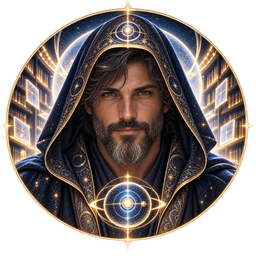
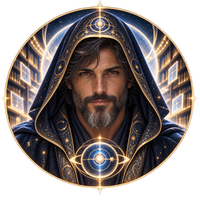
Performance : images allégées, plus de décalage de mise en page au chargement
Feuille de route « Finition, anti-vibecode & robustesse », priorité 7 :
mesurer avant de modifier. Mesure en laboratoire (mobile 390 px, 4G lente
1,6 Mb/s, 150 ms, processeur ÷4), avant → après :
- accueil : LCP 5,2 s → 3,5 s ; poids 665 → 533 Ko
- Formation 4,0 → 3,3 s, Oracle 4,3 → 3,3 s, Réseau 4,7 → 3,2 s,
  Cartes cadeaux 4,4 → 2,9 s, Défi 4,4 → 2,9 s
- CLS 0,10–0,14 → 0 à 0,04 sur toutes les pages mesurées

Changements (mêmes noms de fichiers, aucun code d'image modifié) :
- images ré-encodées ou redimensionnées à au moins 2× leur taille affichée :
  héros cosmique mobile 294 → 148 Ko et bureau 282 → 124 Ko (WebP q72,
  mêmes dimensions, sans différence visible), symbole 65 → 18 Ko, logos,
  avatar du Gardien 128 → 81 Ko, portrait de Stéphanie (1200 px, garde
  la qualité pour le partage), couverture du Codex, photo de Sébastien.
  Images de partage 1200×630 inchangées.
- index.css : l'espace de 84 px en bas de page (mobile) n'est créé qu'une
  fois l'application affichée ; pendant le chargement il se trouvait en haut
  puis sautait en bas (décalage CLS 0,1 sur chaque page). Le test
  siteOptimization2 vérifie toujours cet espace, avec le nouveau sélecteur.

Build complet : 453 tests.

Claude-Session: https://claude.ai/code/session_01MWA2BeD79SJBEmY3bPZiT7

diff --git a/src/index.css b/src/index.css
@@ -19,7 +19,9 @@ body {
    au-dessus du contenu. Une marge en fin de page laisse le pied de page et les
    derniers boutons accessibles au lieu d'être recouverts. */
 @media (max-width: 639px) {
-  #root::after { content: ''; display: block; height: 84px; }
+  /* :not(:empty) : pendant le chargement, #root est vide ; l'espace se
+     trouvait alors en haut de page puis sautait en bas (décalage CLS 0,1). */
+  #root:not(:empty)::after { content: ''; display: block; height: 84px; }
 }
 img, video, svg, canvas { max-width: 100%; }
 button, a, input, select, textarea { min-width: 0; }

diff --git a/tests/siteOptimization2.test.js b/tests/siteOptimization2.test.js
@@ -41,7 +41,7 @@ test('home hero has no dock anymore and offers booking directly', () => {
 test('floating account button stays compact on phones', () => {
   const account = read('src/components/GlobalAccount.jsx')
   assert.match(account, /<span className="hidden sm:inline">/)
-  assert.match(read('src/index.css'), /#root::after \{ content: ''; display: block; height: 84px; \}/)
+  assert.match(read('src/index.css'), /#root:not\(:empty\)::after \{ content: ''; display: block; height: 84px; \}/)
 })
 
 test('booking flow helps on mobile and after confirmation', () => {
